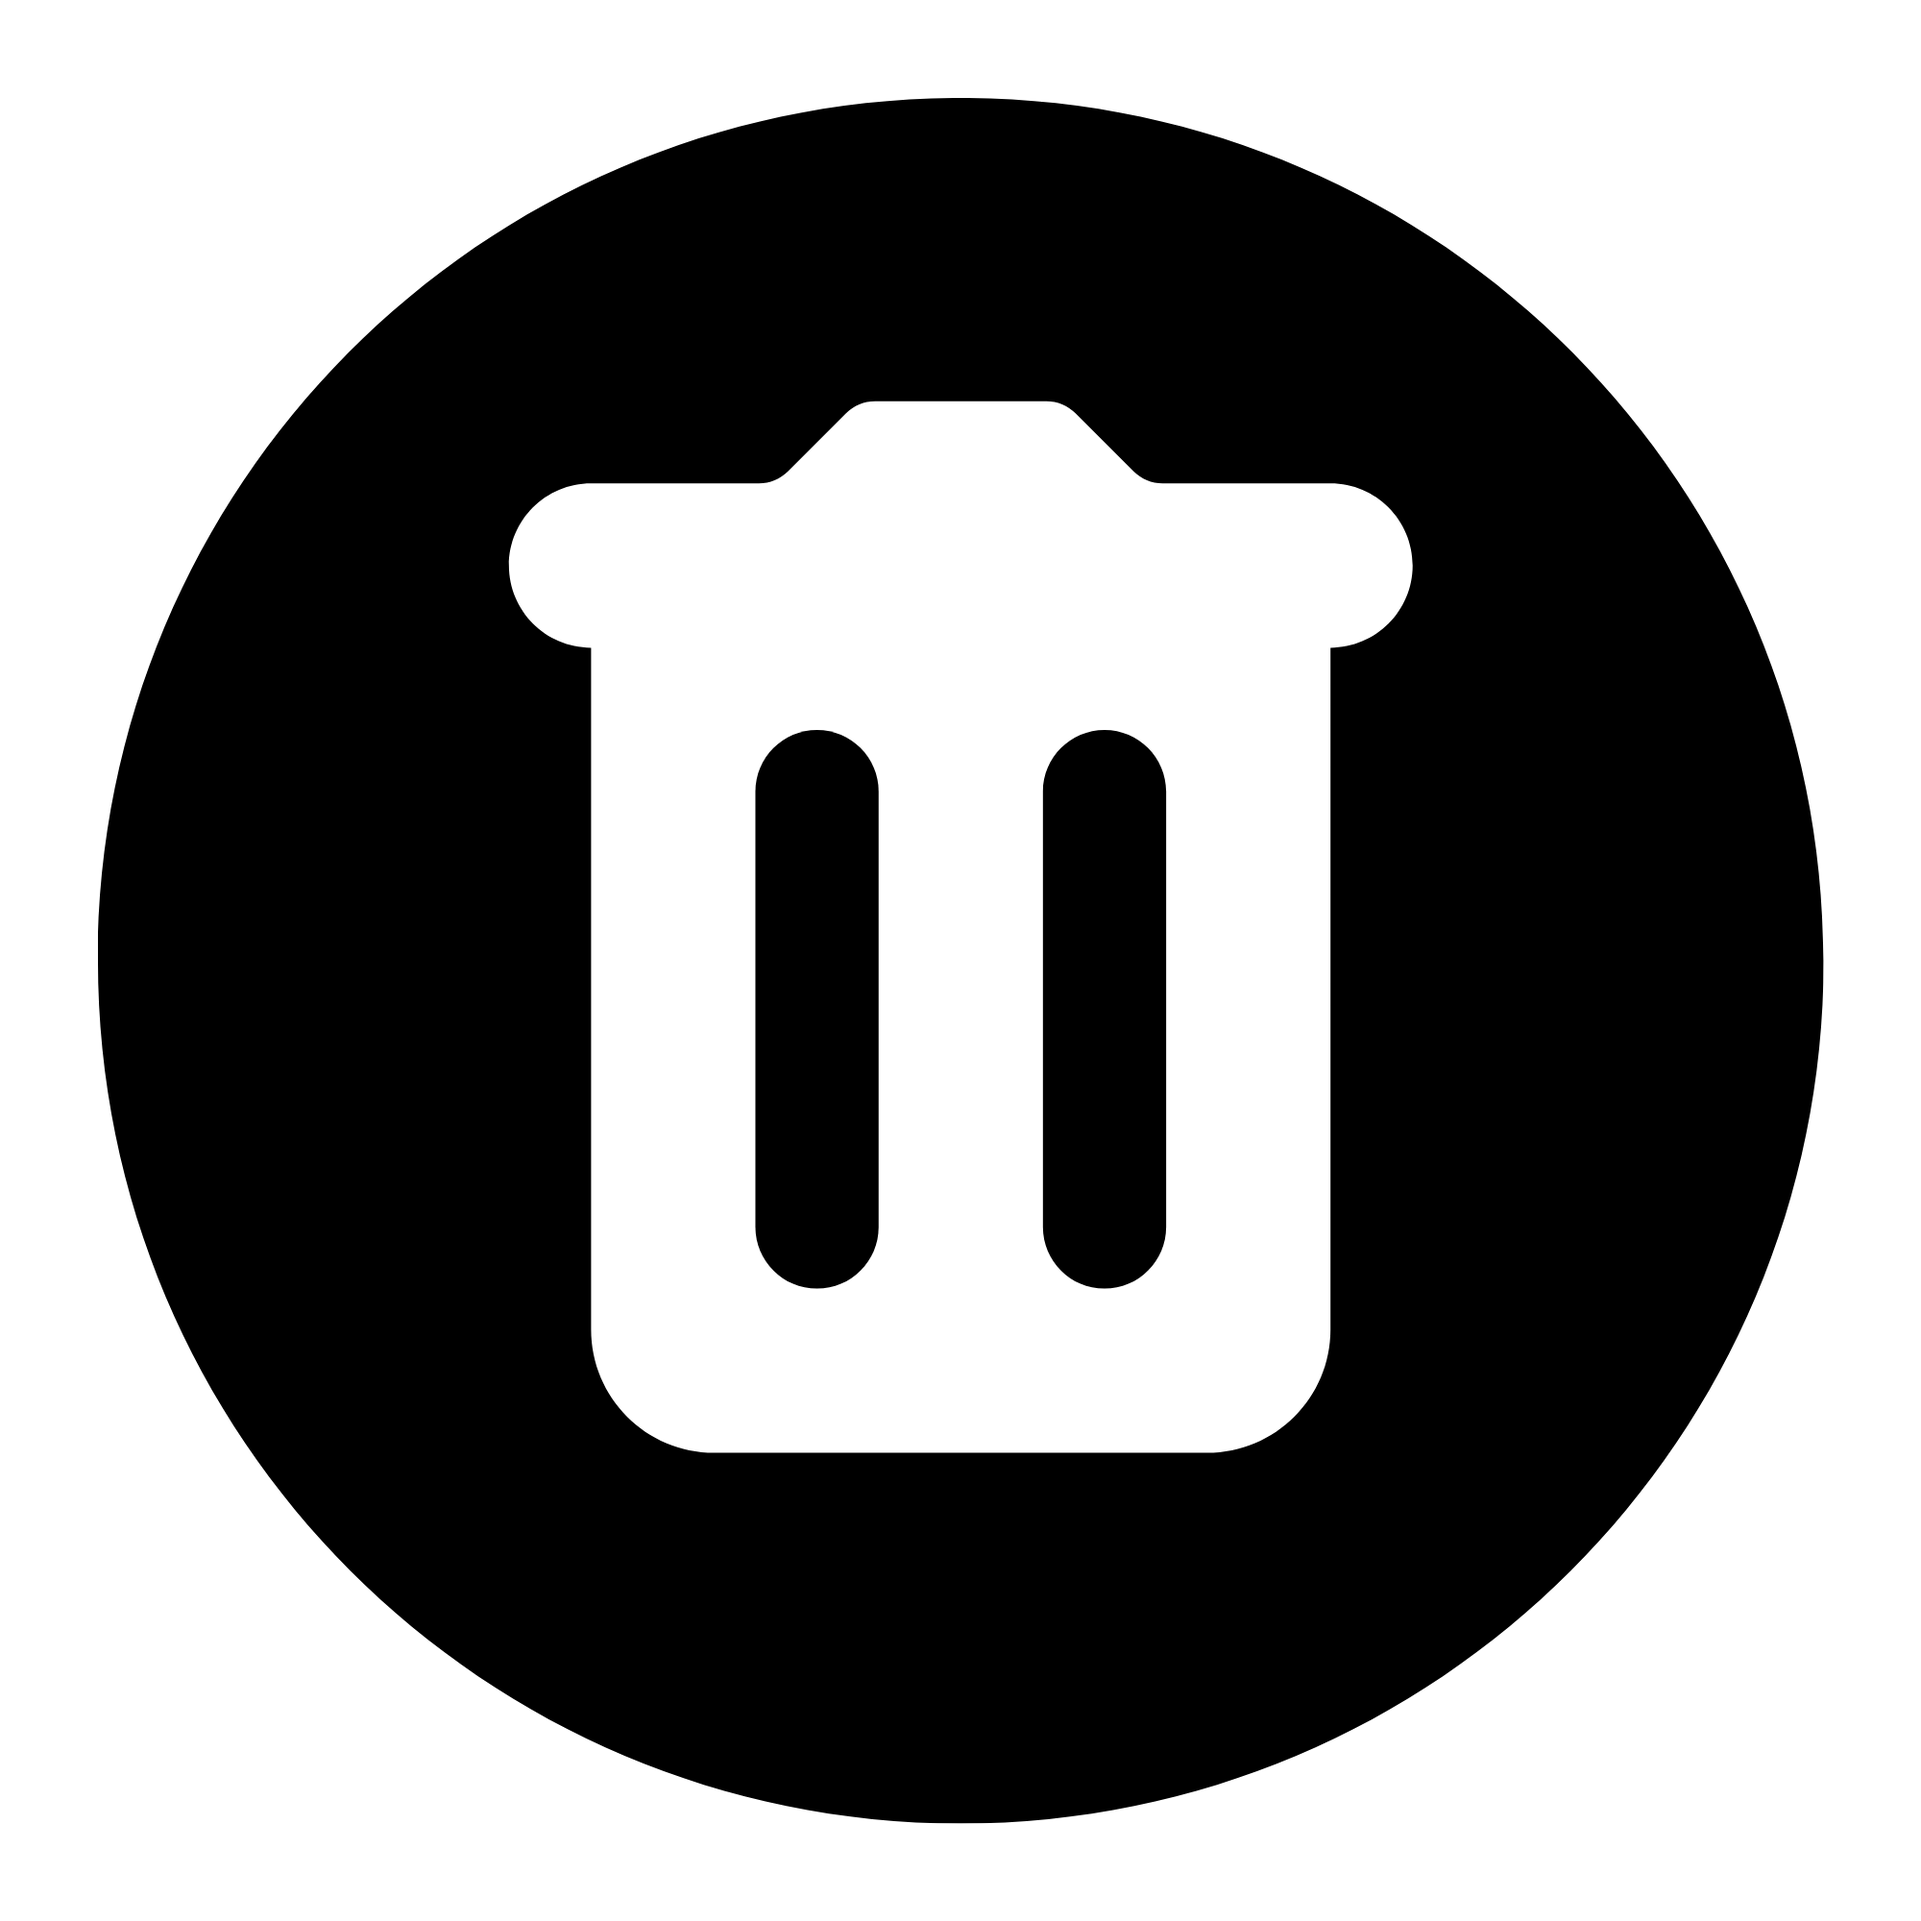
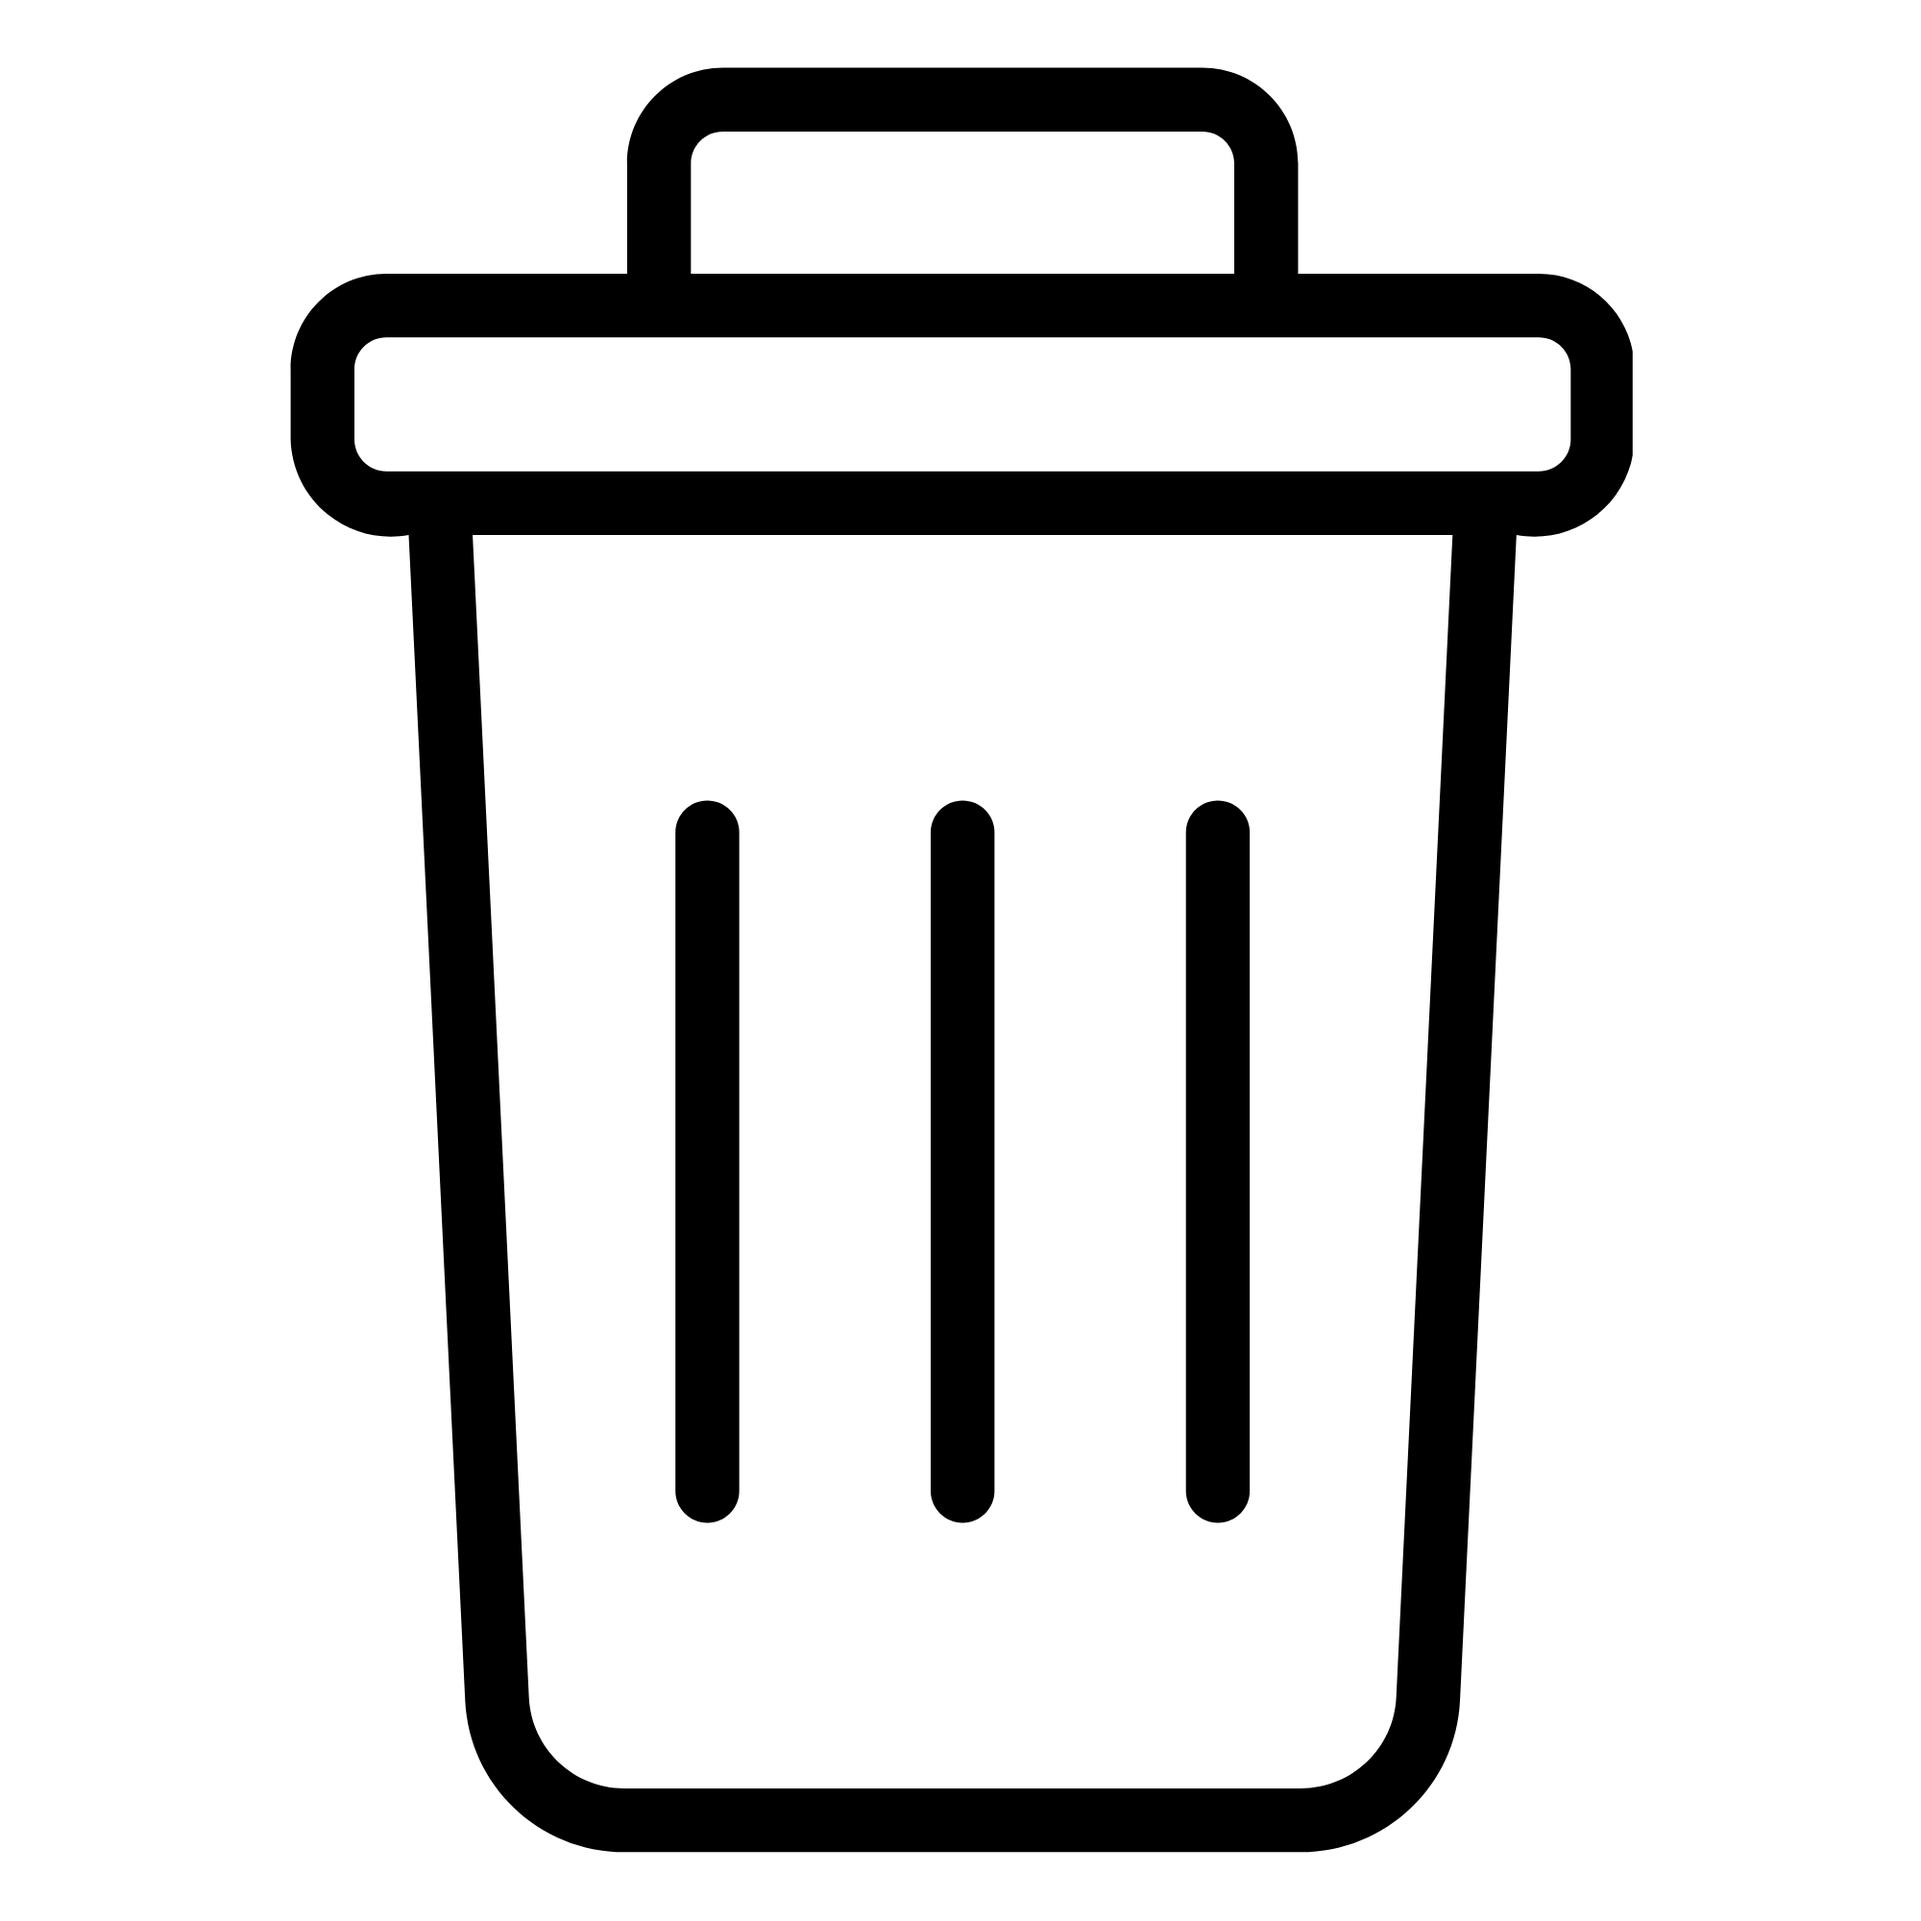
Edits to frontend
delete expense, delete member confirmation page, add new trip popup

diff --git a/src/views/Homepage/AddNewTripModal.vue b/src/views/Homepage/AddNewTripModal.vue
@@ -313,7 +313,7 @@ export default {
 .custom-dropdown {
   position: absolute;
   width: 57.5%;
-  margin-top: 50px;
+  margin-top: 40px;
   border-radius: 10px;
   background-color: #82C0CC;
   border: 1px solid #ccc;
@@ -335,7 +335,7 @@ input[placeholder="Enter Trip Name"], input[placeholder="Search username"], sele
   height: 100%;
   padding: 10px;
   margin-top: 10px;
-  margin-bottom: 20px;
+  margin-bottom: 10px;
   border: 0px solid #ddd;
   border-radius: 10px;
   font-size: medium;
@@ -351,6 +351,7 @@ input[placeholder="Enter Trip Name"], input[placeholder="Search username"], sele
   color: white;
   cursor: pointer;
   font-family: 'Montserrat', sans-serif;
+  margin-top: -10px;
 }
 
 .createTrip:hover {
@@ -409,13 +410,21 @@ input[type='file'] {
 }
 
 .image-upload-btn { 
-  background-color: #489fb5;
+  background-color: rgba(27,72,81,255);
   color: white;
-  padding: 0.5rem;
+  padding: 8px;
   font-family: 'Montserrat', sans-serif;
-  border-radius: 0.3rem;
+  border-radius: 18px;
+  border: 1px solid rgba(255, 255, 255, 0.852);
   cursor: pointer;
-  margin-top: 1rem;
+  margin-left: 10px;
+}
+
+.photo-form {
+  height: 50px;
+  display: flex;
+  align-items: center;
+  justify-content: center;
 }
 
 .temp-image {
@@ -423,8 +432,5 @@ input[type='file'] {
   max-height: 100px; /* Adjust as needed */
   border-radius: 50%;
 }
-
-
-
 
 </style>

diff --git a/src/views/GroupPage/MembersPage/DeleteMember.vue b/src/views/GroupPage/MembersPage/DeleteMember.vue
@@ -11,8 +11,8 @@
           <div class="member-details">
             <span class="member-name">{{ member.name }}</span>
             <span class="member-email">{{ member.email }}</span>
-            <span class="member-trip">from {{ tripName }} ?</span>
           </div>
+          <span class="member-trip">from {{ tripName }} ?</span>
         </div>
       </div>
       <div class="modal-footer">
@@ -69,7 +69,7 @@ export default {
   border-radius: 15px;
   box-shadow: 0px 8px 16px rgba(0, 0, 0, 0.2);
   padding: 20px;
-  width: 300px;
+  width: 350px;
   text-align: center;
 }
 
@@ -91,7 +91,7 @@ export default {
   display: flex;
   justify-content: center;
   align-items: center;
-  margin-right: 20px;
+  margin-right: 10px;
   margin-left: 20px;
   font-weight: bold;
   margin-bottom: auto;
@@ -105,15 +105,17 @@ export default {
 
 .member-name {
   font-weight: bold;
+  font-size: 13px;
 }
 
 .member-email {
-  font-size: 0.9em;
+  font-size: 13px;
 }
 
 .member-trip {
-  font-size: 0.8em;
-  margin-top: 20px;
+  font-size: 15px;
+  margin-left: 18px;
+  font-weight: 600;
 }
 
 .modal-footer {

diff --git a/src/views/GroupPage/GroupPage.vue b/src/views/GroupPage/GroupPage.vue
@@ -72,7 +72,7 @@
                 </div>
                 <div class="right-side">
                   <div class="delete-expense" @click="showCancelExpensePopup(expense)">
-                    <img src="@/assets/dustbin2.png" alt="delete" class="dustbin-icon">
+                    <img src="@/assets/dustbin.png" alt="delete" class="dustbin-icon">
                   </div>
                   <div class="expense-amount" :class="{ 'no-balance': !expense.balance }">
                     {{ expense.sideDisplayText }}
@@ -873,8 +873,8 @@ h1 {
 }
 
 .dustbin-icon {
-  height: 18px;
-  width: 18px;
+  height: 15px;
+  width: 16px;
   cursor: pointer;
 }
 

diff --git a/src/views/Homepage/HomePage.vue b/src/views/Homepage/HomePage.vue
@@ -44,7 +44,7 @@
               <!-- Change Group Photo Popup -->
               <div class="change-image-popup" v-if="showChangeGroupImage">
                 <div class="popup-content">
-                  <h2 class="change-image">Change Trip Cover Image</h2>
+                  <h2 class="change-image">Change Group Image</h2>
           
                     <!--default html file upload button-->
                     <input type="file" accept="image/*" id="actual-btn" @change="tempDisplayPhoto" hidden/>
